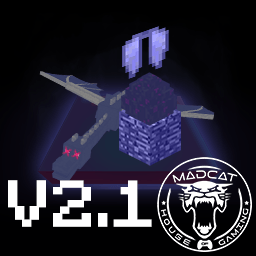
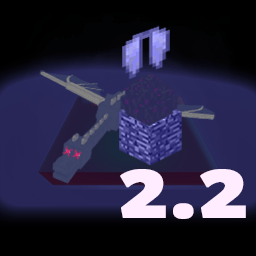
2.2 Release

diff --git a/README.md b/README.md
@@ -1,12 +1,13 @@
-# Ender Dragon Drops v2.1 Data Pack
+# Ender Dragon Drops v2.2 Data Pack
 
 After killing the ender dragon a new egg will spawn on top of the end portal and an Elytra on top of that.
 
-Works on Minecraft 1.13 to 1.14
+Works on Minecraft 1.15 to 1.18
 
 ## Changelog
 
 - Updated animation
-- Updated meta data to show compatibility with Minecraft 1.14
+- Updated meta data to show compatibility with Minecraft 1.18
 - Added pack image
 - Added a new release file
+- Fixed compatibility
